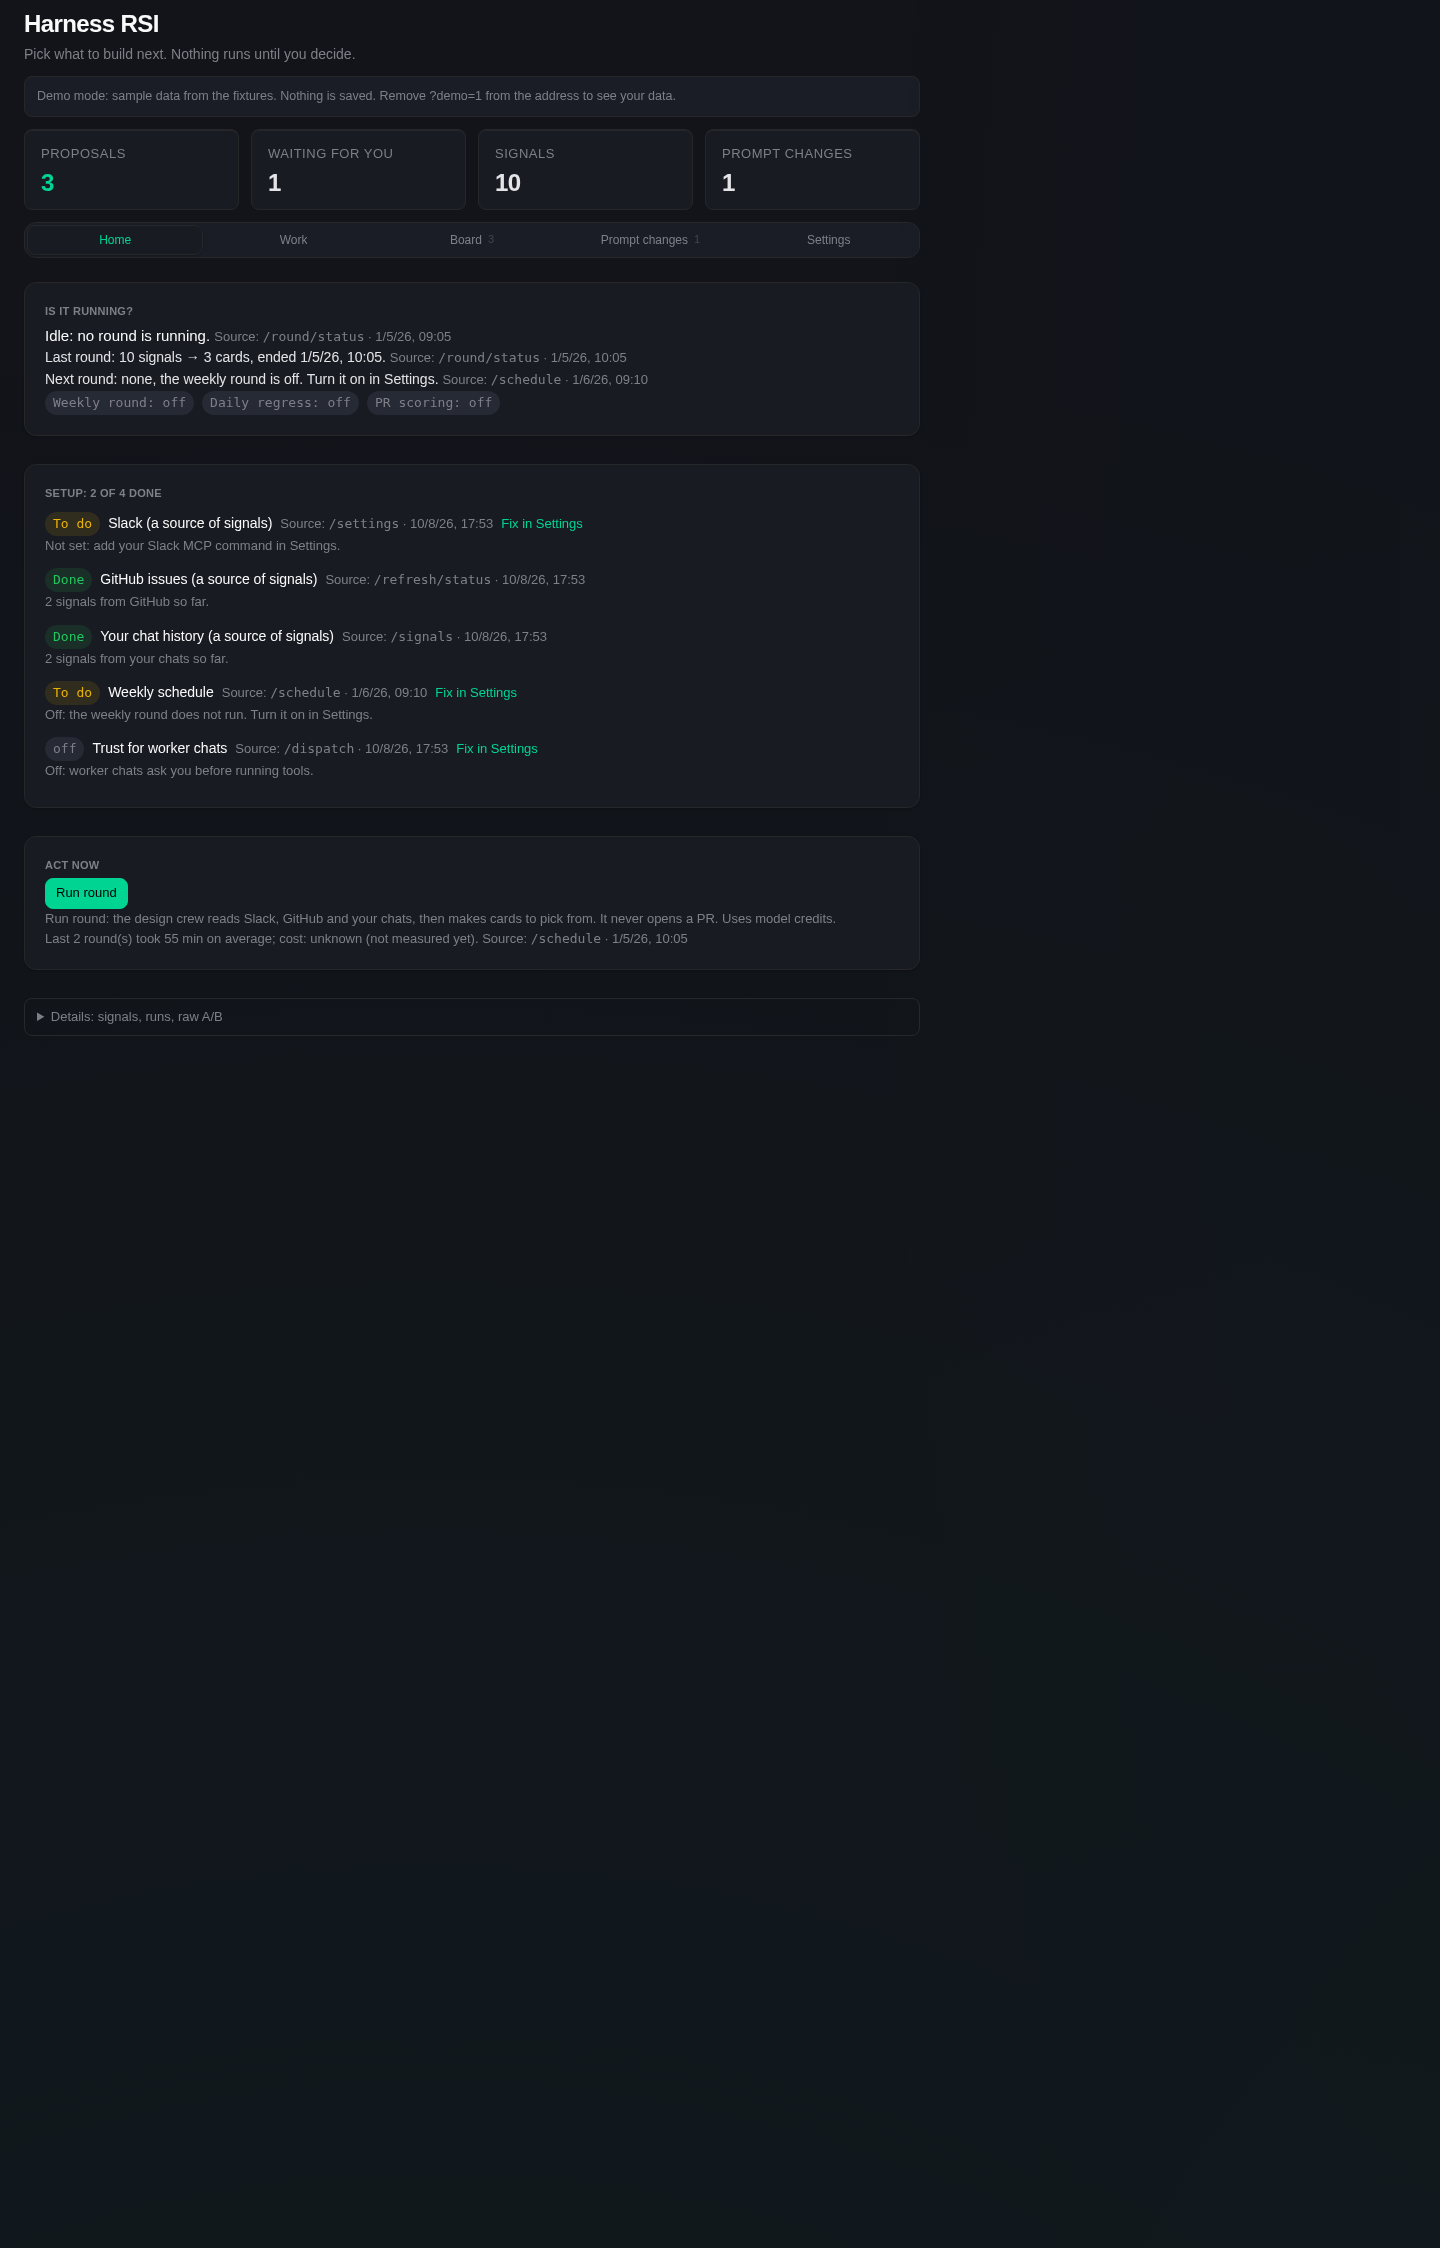
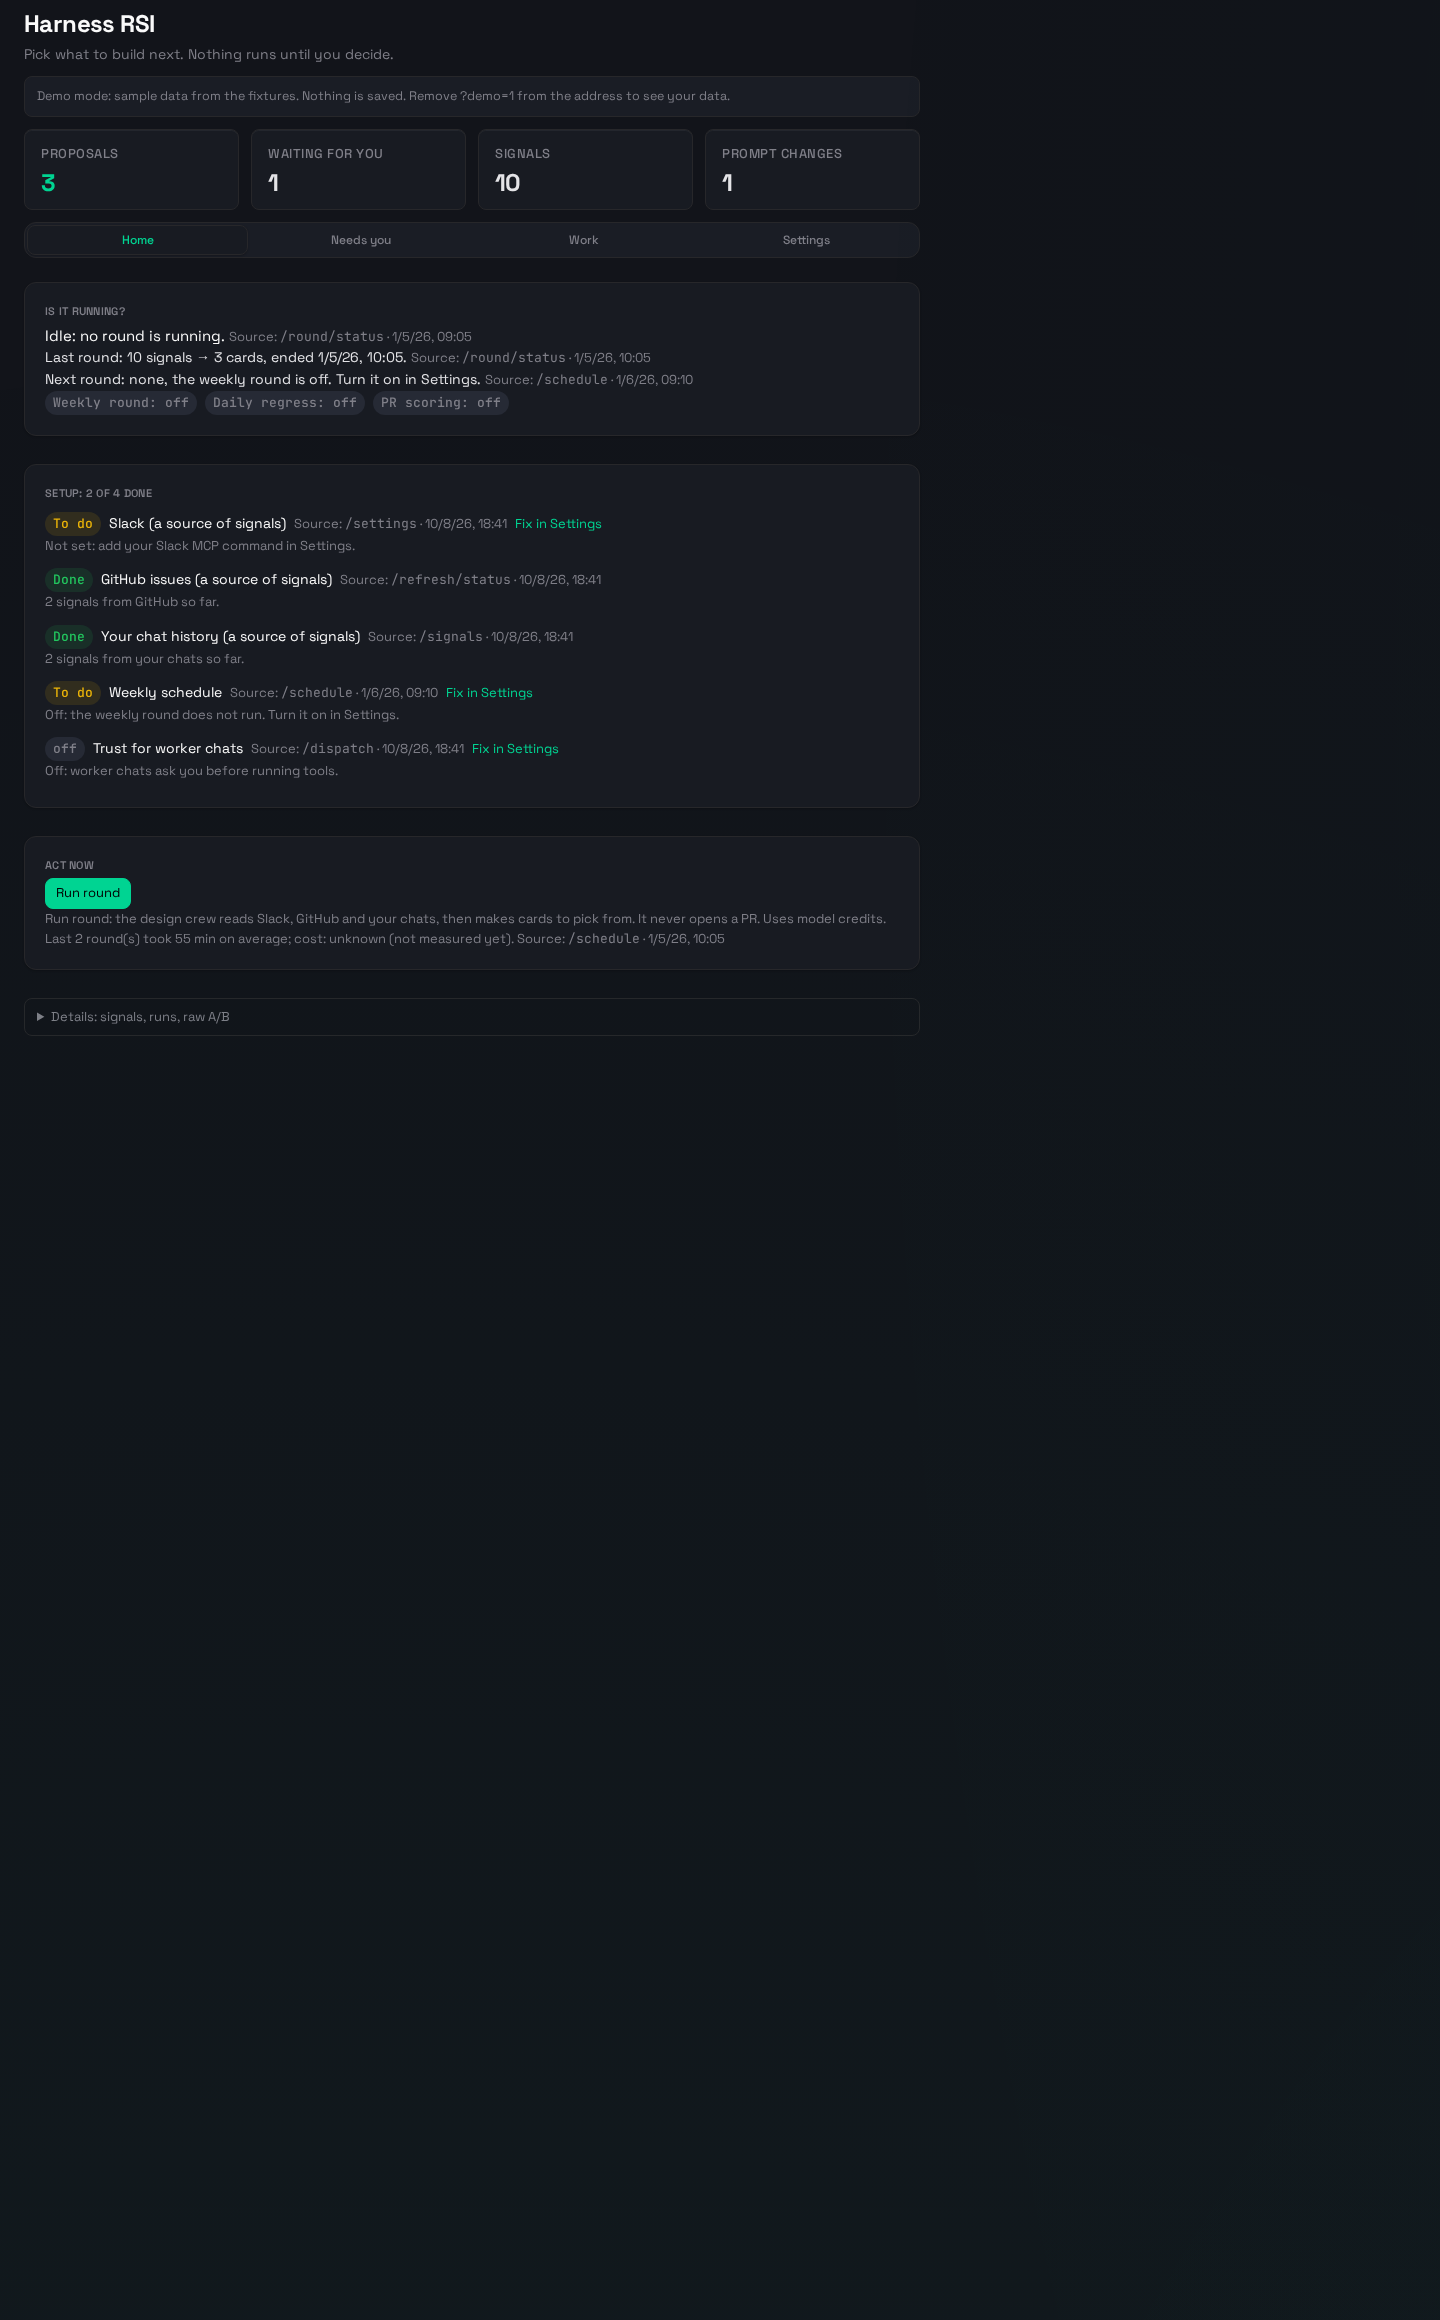
feat(ui): four tabs, Home, Needs you, Work, Settings; Board and Prompt changes go
With Needs you on main, the page has the four tabs of docs/design/ux-v2.md. A card to pick or start and a pending prompt change wait in Needs you; a picked card with its chat, PR, CI and score is in Work; the raw A/B table stays in Home's Details.

A prompt change in Needs you now shows its diff (folded), so Switch to B is decided on what B says. The note after Do points to Needs you instead of a Dispatch button.

Removed with the two tabs: Board, ProposalCard, Outcomes (and its link-a-PR form), PromptChangeCard, DispatchLine, the board's check boxes and Dispatch all Do, and their strings. backendSource keeps link(); POST /outcomes/link is unchanged.

tests/ui/board_check.mjs is now tests/ui/source_check.mjs: the source, form, line and DispatchResult checks stay, the Board card checks go. page_check.mjs checks the four tabs, the diff, Do moving a card to Start, and the empty and failing backend on Needs you. Screenshots: the board and prompts shots are deleted; home, needs, work and settings are retaken.

diff --git a/tests/ui/test_ui.py b/tests/ui/test_ui.py
@@ -1,4 +1,4 @@
-"""Harness RSI app page: opt-in manifest, fake data = fixtures, board behaviour (node)."""
+"""Harness RSI app page: opt-in manifest, fake data = fixtures, page behaviour (node)."""
 
 import json
 import re
@@ -63,9 +63,9 @@ def run_check(tmp_path, script):
     return subprocess.run([node, script], cwd=tmp_path, capture_output=True, text=True, timeout=60)
 
 
-def test_board_renders_every_proposal_and_writes_decisions(tmp_path):
-    r = run_check(tmp_path, "board_check.mjs")
-    assert r.returncode == 0 and "board ok" in r.stdout, r.stderr
+def test_backend_source_forms_and_status_lines(tmp_path):
+    r = run_check(tmp_path, "source_check.mjs")
+    assert r.returncode == 0 and "source ok" in r.stdout, r.stderr
 
 
 def test_demo_mode_boots_the_page_on_fixtures_and_every_string_is_in_the_table(tmp_path):

diff --git a/README.md b/README.md
@@ -37,11 +37,11 @@ Sealed store (`judge/seal.py`): agents run as the same user, so the data dir alo
 
 Closing the loop (outcome ledger):
 
-- `$HARNESS_RSI_DATA/outcomes.jsonl` holds one `schemas/outcome.schema.json` row per card and product PR: the decision, the PR, its merge sha, the judge's base and head runs, the exams promoted on merge and every post-merge regress result for those exams. Rows are appended whole; the newest per `(card_id, pr)` is current. `GET /outcomes` reads it and each card shows its PRs' scores; `POST /outcomes/link {proposal_id, pr}` links a card to a KiroCrew PR from the board.
-- `python -m backend.autoscore --kirocrew KC` reads the 50 newest KiroCrew PRs and every linked one in one GraphQL call (read-only, stops below 200 API points), links a PR whose title or body names a card id, and when a linked PR's head moved runs the card's exams (its `exam_ids` plus exams written for its signals) on the base and on the head in throwaway worktrees. On merge it promotes those exams to regression and runs the regression suite on the merge commit. Fork PRs are linked but never run. Paired metrics come from `$HARNESS_RSI_DATA/metrics/<owner>__<repo>__<n>.json` (`judge.metrics_in` output) when one exists. The board's Score PRs button (`POST /score/run`) starts it as a single-flight job, and the hourly tick does when "Score linked KiroCrew PRs" is on in Settings.
+- `$HARNESS_RSI_DATA/outcomes.jsonl` holds one `schemas/outcome.schema.json` row per card and product PR: the decision, the PR, its merge sha, the judge's base and head runs, the exams promoted on merge and every post-merge regress result for those exams. Rows are appended whole; the newest per `(card_id, pr)` is current. `GET /outcomes` reads it and the Work tab shows each picked card's PR, CI and score; `POST /outcomes/link {proposal_id, pr}` links a card to a KiroCrew PR by hand (the page has no form for it: autoscore links a PR that names the card id).
+- `python -m backend.autoscore --kirocrew KC` reads the 50 newest KiroCrew PRs and every linked one in one GraphQL call (read-only, stops below 200 API points), links a PR whose title or body names a card id, and when a linked PR's head moved runs the card's exams (its `exam_ids` plus exams written for its signals) on the base and on the head in throwaway worktrees. On merge it promotes those exams to regression and runs the regression suite on the merge commit. Fork PRs are linked but never run. Paired metrics come from `$HARNESS_RSI_DATA/metrics/<owner>__<repo>__<n>.json` (`judge.metrics_in` output) when one exists. The Work tab's Score PRs button (`POST /score/run`) starts it as a single-flight job, and the hourly tick does when "Score linked KiroCrew PRs" is on in Settings.
 - A row's `prompt_versions` names the crew prompt versions of the round that wrote its card (null for rounds from before versions).
 - Auto-dispatch (`backend/dispatch.py`, off until the owner turns it on in Settings): 做 on a proposal card opens ONE app-owned worker chat through the gateway's app API (app token -> `POST /api/chat/slots` -> `POST /api/chat`), filed at birth into the top-level `Harness RSI` folder (found by name, or created once), and set to Trust before the seed only when the owner's "Start each worker chat in Trust" (`trust_dispatched`, default off) is on: that is why the manifest declares `permissions.sessionApproval`. Seeded with the card's title, signals, prior art and size limits and "one small PR, CI green, do not merge", never an exam. One per card (a failed one may retry), at most `daily_cap` (default 2) a day, only to an allowlisted repo (default `kirodotdev/KiroCrew`). `$HARNESS_RSI_DATA/dispatches.jsonl` holds each dispatch; a row's `dispatch` names the chat once the worker's PR is linked. Prompt-change cards never dispatch.
-- `python3 crew/propose.py --ab AB.json` (the meta step, after a `crew/ab.py` run) hands the proposer agent the ledger's counts and that A/B's miss reasons, never an exam, and saves its ONE change for ONE agent to `$HARNESS_RSI_DATA/prompt_changes/<id>.json` as pending; `--attach ID --ab AB2.json` puts the A/B of that change on it. The board shows it as a prompt-change card (A vs B per metric, verdict, diff); only the owner's 做 applies it, which writes the new version.
+- `python3 crew/propose.py --ab AB.json` (the meta step, after a `crew/ab.py` run) hands the proposer agent the ledger's counts and that A/B's miss reasons, never an exam, and saves its ONE change for ONE agent to `$HARNESS_RSI_DATA/prompt_changes/<id>.json` as pending; `--attach ID --ab AB2.json` puts the A/B of that change on it. Needs you shows it as a Switch to B item (A vs B per metric, verdict, when and how the A/B ran, the diff), and Home's Details keeps the raw A/B table; only the owner's Switch to B applies it, which writes the new version.
 - Back-fill: `python -m backend.autoscore --kirocrew KC --pr N [--card prop_x]` scores one PR now; a PR with no runnable exam or no card says so in `note`.
 
 Improving the crew's own prompts:
